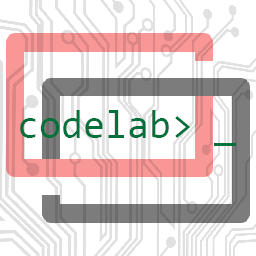
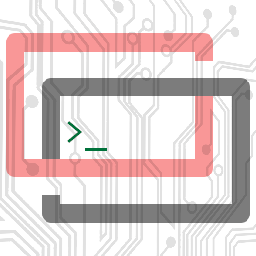
新增Creeper防爆，基本指令支持，基本Tick支持 替换优化后图标

Changed region(s): [[0.0625, 0.4062, 0.6562, 0.5938], [0.8438, 0.5312, 0.9375, 0.5938], [0.6875, 0.4375, 0.75, 0.5312]]

diff --git a/src/main/java/cn/focot/codelab/MineCodeCraftHelper.java b/src/main/java/cn/focot/codelab/MineCodeCraftHelper.java
@@ -1,0 +1,49 @@
+package cn.focot.codelab;
+
+import net.fabricmc.fabric.api.networking.v1.PacketSender;
+import net.minecraft.entity.mob.CreeperEntity;
+import net.minecraft.network.MessageType;
+import net.minecraft.server.MinecraftServer;
+import net.minecraft.server.network.ServerPlayNetworkHandler;
+import net.minecraft.server.network.ServerPlayerEntity;
+import net.minecraft.text.Text;
+import net.minecraft.util.Util;
+import net.minecraft.world.explosion.Explosion;
+import org.apache.logging.log4j.LogManager;
+import org.apache.logging.log4j.Logger;
+
+public class MineCodeCraftHelper {
+    static final Logger LOGGER = LogManager.getLogger("MineCodeCraft");
+    public static MinecraftServer server;
+    public static int time = (int) (System.currentTimeMillis() / 1000);
+
+    public static void onServerLoaded(MinecraftServer server) {
+        LOGGER.info("Server loaded mixin");
+        MineCodeCraftHelper.server = server;
+        LOGGER.info("Minecraft server started: " + server.getVersion());
+    }
+
+    public static void onPlayerEvent(ServerPlayNetworkHandler handler, PacketSender sender, MinecraftServer server) {
+        ServerPlayerEntity player = handler.player;
+        LOGGER.info("new player join: %s[%s]".formatted(player.getName().asString(), player.getIp()));
+        player.sendMessage(Text.of("Welcome! %s[%s]".formatted(player.getName().asString(), player.getIp())), false);
+    }
+
+    public static void onTick(MinecraftServer server) {
+//        int now = (int) (System.currentTimeMillis() / 1000);
+//        if (now - MineCodeCraftHelper.time >= 3) {
+//            LOGGER.info("Tick at 3 sec");
+//            MineCodeCraftHelper.time = now;
+//        }
+    }
+
+    public static void onCreeperexplode(CreeperEntity creeper) {
+        //LOGGER.info("Creeper %f %f %f explode!".formatted(creeper.getX(), creeper.getY(), creeper.getZ()));
+        server.getPlayerManager().broadcastChatMessage(Text.of("Creeper[%d, %d, %d] explode!".formatted((int) creeper.getX(), (int) creeper.getY(), (int) creeper.getZ())), MessageType.SYSTEM, Util.NIL_UUID);
+    }
+
+    public static Explosion.DestructionType onCreepercreateExplosion(Explosion.DestructionType t) {
+        //return t;
+        return Explosion.DestructionType.NONE;
+    }
+}

diff --git a/src/main/java/cn/focot/codelab/mixin/ServerMixin.java b/src/main/java/cn/focot/codelab/mixin/ServerMixin.java
@@ -1,0 +1,36 @@
+package cn.focot.codelab.mixin;
+
+import cn.focot.codelab.MineCodeCraftHelper;
+import net.minecraft.server.MinecraftServer;
+import org.spongepowered.asm.mixin.Mixin;
+import org.spongepowered.asm.mixin.injection.At;
+import org.spongepowered.asm.mixin.injection.Inject;
+import org.spongepowered.asm.mixin.injection.callback.CallbackInfo;
+
+import java.util.function.BooleanSupplier;
+
+@Mixin(MinecraftServer.class)
+public class ServerMixin {
+    //	@Inject(at = @At("HEAD"), method = "init()V")
+//	private void init(CallbackInfo info) {
+//		System.out.println("This line is printed by an example mod mixin!");
+//	}
+//
+    @Inject(
+            method = "tick",
+            at = @At(
+                    value = "INVOKE",
+                    target = "Lnet/minecraft/server/MinecraftServer;tickWorlds(Ljava/util/function/BooleanSupplier;)V",
+                    shift = At.Shift.BEFORE,
+                    ordinal = 0
+            )
+    )
+    private void onTick(BooleanSupplier booleanSupplier_1, CallbackInfo ci) {
+        MineCodeCraftHelper.onTick((MinecraftServer) (Object) this);
+    }
+
+    @Inject(method = "loadWorld", at = @At("HEAD"))
+    private void serverLoaded(CallbackInfo c) {
+        MineCodeCraftHelper.onServerLoaded((MinecraftServer) (Object) this);
+    }
+}

diff --git a/src/main/java/cn/focot/codelab/MineCodeCraftCommand.java b/src/main/java/cn/focot/codelab/MineCodeCraftCommand.java
@@ -1,0 +1,28 @@
+package cn.focot.codelab;
+
+import com.mojang.brigadier.Command;
+import com.mojang.brigadier.CommandDispatcher;
+import com.mojang.brigadier.builder.LiteralArgumentBuilder;
+import com.mojang.brigadier.exceptions.CommandSyntaxException;
+import net.minecraft.server.network.ServerPlayerEntity;
+import net.minecraft.server.command.CommandManager;
+import net.minecraft.server.command.ServerCommandSource;
+import net.minecraft.text.Text;
+
+public class MineCodeCraftCommand {
+    public static void registerCommand(CommandDispatcher<ServerCommandSource> dispatcher) {
+        LiteralArgumentBuilder<ServerCommandSource> literalargumentbuilder = CommandManager.literal("minecodecraft").executes(source -> {
+            ServerPlayerEntity player;
+            try {
+                player = source.getSource().getPlayer();
+            } catch (CommandSyntaxException e) {
+                source.getSource().sendFeedback(Text.of("no a player!"), false);
+                return Command.SINGLE_SUCCESS;
+            }
+            player.sendMessage(Text.of(player.getName().asString() + " is testing!!\nIP: " + player.getIp()), false);
+            return Command.SINGLE_SUCCESS;
+        });
+
+        dispatcher.register(literalargumentbuilder);
+    }
+}

diff --git a/src/main/java/cn/focot/codelab/mixin/CreeperMixin.java b/src/main/java/cn/focot/codelab/mixin/CreeperMixin.java
@@ -1,0 +1,30 @@
+package cn.focot.codelab.mixin;
+
+import cn.focot.codelab.MineCodeCraftHelper;
+import net.minecraft.entity.mob.CreeperEntity;
+import net.minecraft.world.explosion.Explosion;
+import org.spongepowered.asm.mixin.Mixin;
+import org.spongepowered.asm.mixin.injection.At;
+import org.spongepowered.asm.mixin.injection.Inject;
+import org.spongepowered.asm.mixin.injection.ModifyArg;
+import org.spongepowered.asm.mixin.injection.callback.CallbackInfo;
+
+@Mixin(CreeperEntity.class)
+public class CreeperMixin {
+    @Inject(method = "explode", at = @At("HEAD"))
+    private void onCreeperexplode(CallbackInfo c) {
+        MineCodeCraftHelper.onCreeperexplode((CreeperEntity) (Object) this);
+    }
+
+    @ModifyArg(
+            method = "explode",
+            at = @At(
+                    value = "INVOKE",
+                    target = "Lnet/minecraft/world/World;createExplosion(Lnet/minecraft/entity/Entity;DDDFLnet/minecraft/world/explosion/Explosion$DestructionType;)Lnet/minecraft/world/explosion/Explosion;"
+            ),
+            index = 5
+    )
+    private Explosion.DestructionType onCreepercreateExplosion(Explosion.DestructionType t) {
+        return MineCodeCraftHelper.onCreepercreateExplosion(t);
+    }
+}

diff --git a/src/main/java/cn/focot/codelab/MineCodeCraftMod.java b/src/main/java/cn/focot/codelab/MineCodeCraftMod.java
@@ -1,14 +1,19 @@
 package cn.focot.codelab;
 
+import net.fabricmc.fabric.api.command.v1.CommandRegistrationCallback;
 import net.fabricmc.api.ModInitializer;
+import net.fabricmc.fabric.api.networking.v1.ServerPlayConnectionEvents;
 
 public class MineCodeCraftMod implements ModInitializer {
-	@Override
-	public void onInitialize() {
-		// This code runs as soon as Minecraft is in a mod-load-ready state.
-		// However, some things (like resources) may still be uninitialized.
-		// Proceed with mild caution.
+    @Override
+    public void onInitialize() {
+        // This code runs as soon as Minecraft is in a mod-load-ready state.
+        // However, some things (like resources) may still be uninitialized.
+        // Proceed with mild caution.
 
-		System.out.println("Hello Fabric world!");
-	}
+        CommandRegistrationCallback.EVENT.register((dispatcher, dedicated) -> MineCodeCraftCommand.registerCommand(dispatcher));
+        ServerPlayConnectionEvents.JOIN.register(MineCodeCraftHelper::onPlayerEvent);
+    }
+
+
 }
